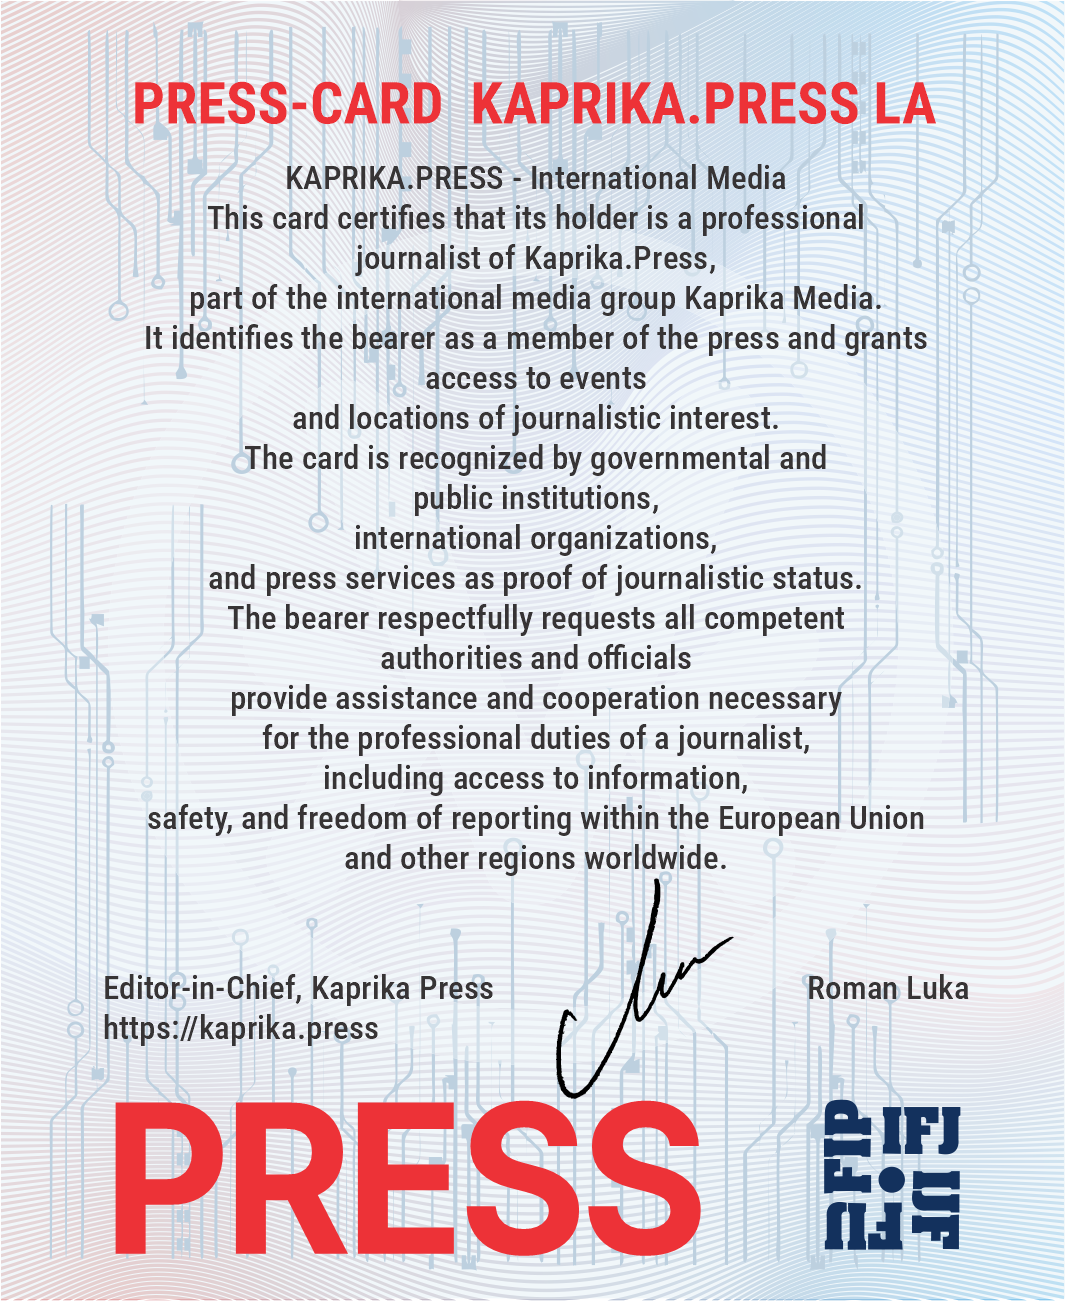
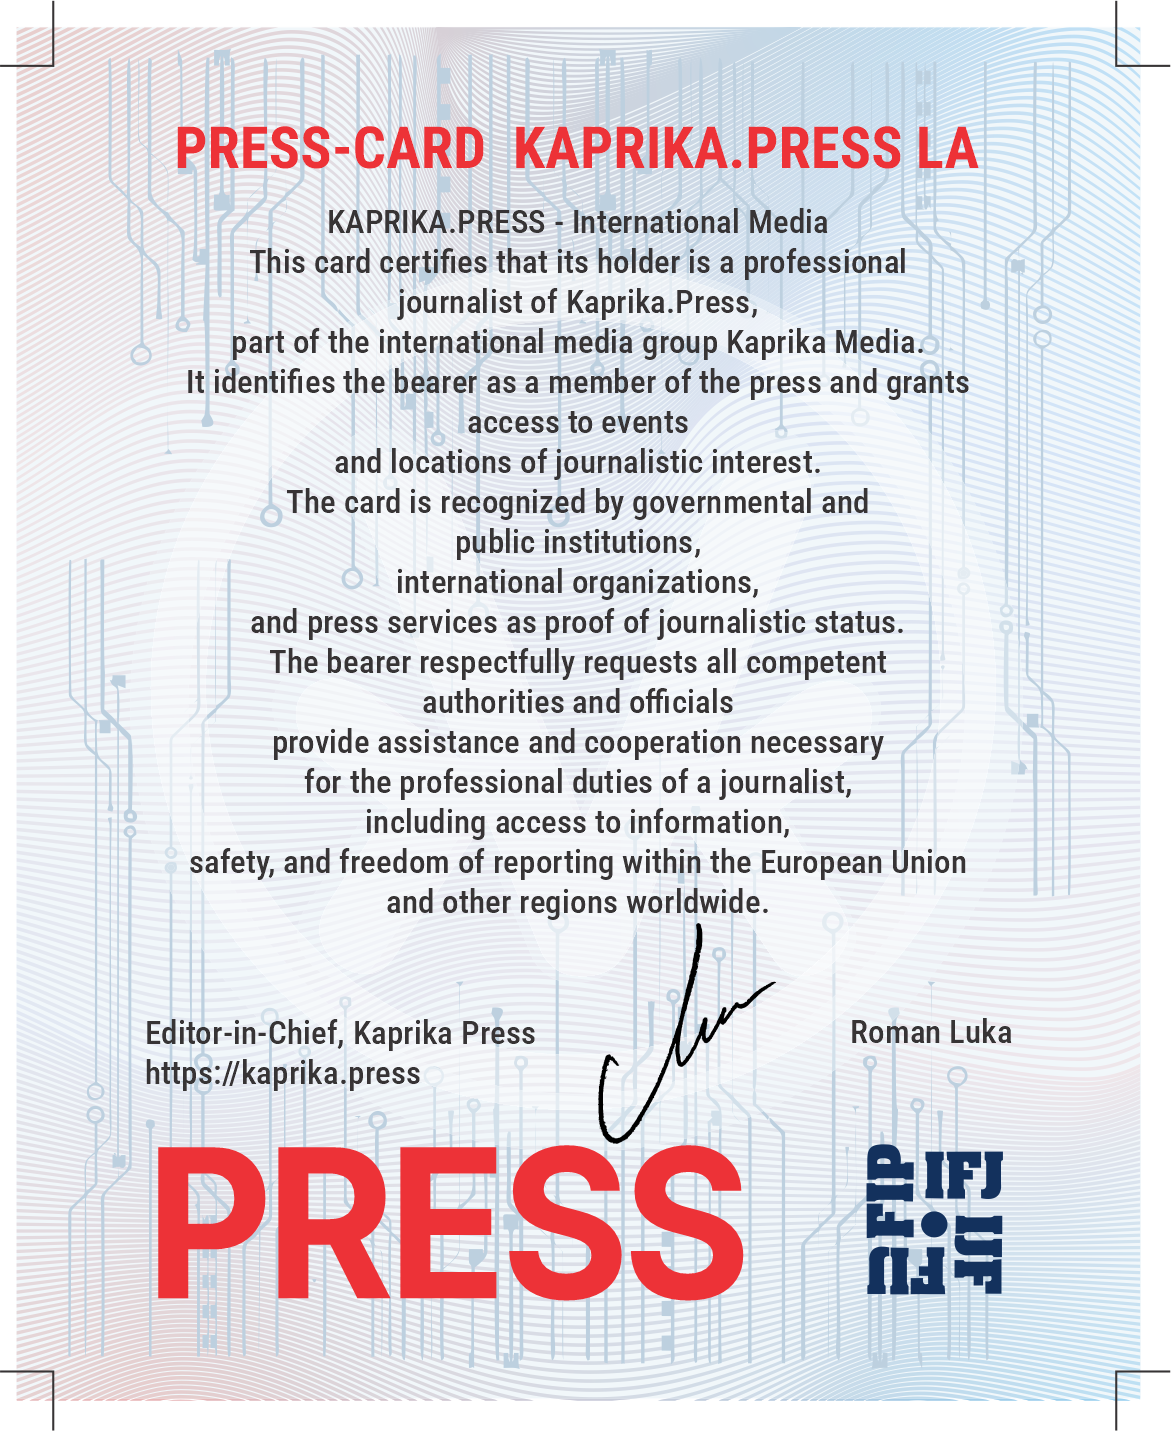
Your descriptive commit message here

diff --git a/app/api/mint-card/route.ts b/app/api/mint-card/route.ts
@@ -184,8 +184,9 @@ async function createVectorPdf(params: {
   const fontRegular = await pdfDoc.embedFont(StandardFonts.Helvetica)
 
   // -- PAGE 1: FRONT --
-  const page = pdfDoc.addPage([CARD_WIDTH, CARD_HEIGHT])
-
+  const page = pdfDoc.addPage([CARD_WIDTH * 1.1, CARD_HEIGHT * 1.1])
+  const xGap = CARD_WIDTH * 0.1
+  const yGap = CARD_HEIGHT * 0.1
   // 1. Background
   const frontBgBytes = await fs.readFile(
     path.join(process.cwd(), 'public', 'kaprika-card-bg.png'),
@@ -194,8 +195,8 @@ async function createVectorPdf(params: {
   page.drawImage(frontBgImage, {
     x: 0,
     y: 0,
-    width: CARD_WIDTH,
-    height: CARD_HEIGHT,
+    width: CARD_WIDTH * 1.1,
+    height: CARD_HEIGHT * 1.1,
   })
 
   // 2. User Photo
@@ -203,8 +204,8 @@ async function createVectorPdf(params: {
   const photoImage = await pdfDoc.embedPng(photoBuffer)
   // PDF y is bottom-left of image
   page.drawImage(photoImage, {
-    x: PHOTO_LEFT,
-    y: toPdfY(PHOTO_TOP, PHOTO_HEIGHT),
+    x: PHOTO_LEFT + xGap,
+    y: toPdfY(PHOTO_TOP, PHOTO_HEIGHT) + yGap,
     width: PHOTO_WIDTH,
     height: PHOTO_HEIGHT,
   })
@@ -213,8 +214,8 @@ async function createVectorPdf(params: {
   if (coaBuffer) {
     const coaImage = await pdfDoc.embedPng(coaBuffer)
     page.drawImage(coaImage, {
-      x: COA_LEFT,
-      y: toPdfY(COA_TOP, COA_HEIGHT),
+      x: COA_LEFT + xGap,
+      y: toPdfY(COA_TOP, COA_HEIGHT) + yGap,
       width: COA_WIDTH,
       height: COA_HEIGHT,
     })
@@ -223,8 +224,8 @@ async function createVectorPdf(params: {
   // 4. QR Code
   const qrImage = await pdfDoc.embedPng(qrBuffer)
   page.drawImage(qrImage, {
-    x: QR_LEFT,
-    y: toPdfY(QR_TOP, QR_SIZE),
+    x: QR_LEFT + xGap,
+    y: toPdfY(QR_TOP, QR_SIZE) + yGap,
     width: QR_SIZE,
     height: QR_SIZE,
   })
@@ -236,8 +237,8 @@ async function createVectorPdf(params: {
 
   // Name Line 1
   page.drawText(displayFirst, {
-    x: nameX,
-    y: toPdfY(firstLineBaselineY),
+    x: nameX + xGap,
+    y: toPdfY(firstLineBaselineY) + yGap,
     size: fontSize,
     font: fontBold,
     color: rgb(0.067, 0.094, 0.153), // #111827
@@ -245,8 +246,8 @@ async function createVectorPdf(params: {
 
   // Name Line 2
   page.drawText(displayLast, {
-    x: nameX,
-    y: toPdfY(firstLineBaselineY + lineGap),
+    x: nameX + xGap,
+    y: toPdfY(firstLineBaselineY + lineGap) + yGap,
     size: fontSize,
     font: fontBold,
     color: rgb(0.067, 0.094, 0.153), // #111827
@@ -254,8 +255,8 @@ async function createVectorPdf(params: {
 
   // Role
   page.drawText(role, {
-    x: nameX,
-    y: toPdfY(firstLineBaselineY + lineGap * 1.7),
+    x: nameX + xGap,
+    y: toPdfY(firstLineBaselineY + lineGap * 1.7) + yGap,
     size: fontSize * 0.6,
     font: fontRegular,
     color: rgb(0.122, 0.161, 0.216), // #1f2937
@@ -275,16 +276,16 @@ async function createVectorPdf(params: {
   const smallColor = rgb(0.294, 0.333, 0.388) // #4b5563
 
   page.drawText(`ID: ${cardId}`, {
-    x: QR_LEFT,
-    y: toPdfY(footerY),
+    x: QR_LEFT + xGap,
+    y: toPdfY(footerY) + yGap,
     size: smallSize,
     font: fontRegular,
     color: smallColor,
   })
 
   page.drawText(`EXPIRES: ${expirationDate}`, {
-    x: nameX,
-    y: toPdfY(footerY),
+    x: nameX + xGap,
+    y: toPdfY(footerY) + yGap,
     size: smallSize,
     font: fontRegular,
     color: smallColor,
@@ -296,12 +297,12 @@ async function createVectorPdf(params: {
     path.join(process.cwd(), 'public', 'kaprika-card-back.png'),
   )
   const backBgImage = await pdfDoc.embedPng(backBgBytes)
-  const backPage = pdfDoc.addPage([CARD_WIDTH, CARD_HEIGHT])
+  const backPage = pdfDoc.addPage([CARD_WIDTH * 1.1, CARD_HEIGHT * 1.1])
   backPage.drawImage(backBgImage, {
     x: 0,
     y: 0,
-    width: CARD_WIDTH,
-    height: CARD_HEIGHT,
+    width: CARD_WIDTH * 1.1,
+    height: CARD_HEIGHT * 1.1,
   })
 
   const pdfBytes = await pdfDoc.save()
